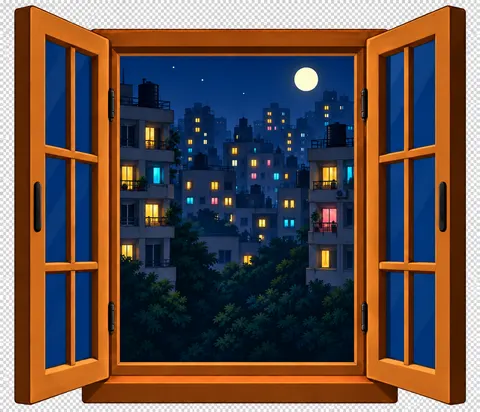
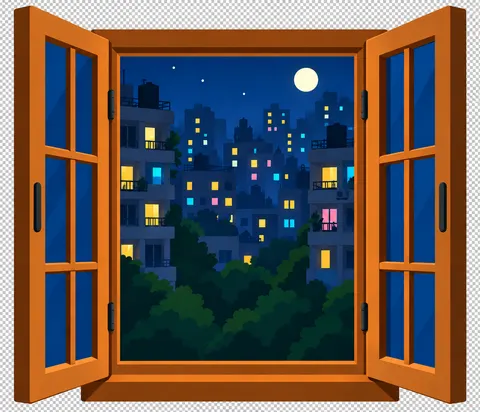
Updated Hero portrait

Changed region(s): [[0.0, 0.0, 1.0, 1.0], [0.2812, 0.1748, 0.3125, 0.2039]]

diff --git a/src/HeroPortrait.tsx b/src/HeroPortrait.tsx
@@ -1,4 +1,4 @@
-import { useEffect, useRef, useState, type CSSProperties } from 'react';
+import { useCallback, useEffect, useRef, useState, type CSSProperties } from 'react';
 import site from './content/site.json';
 import layers from './content/hero-layers.json';
 import './hero-portrait.css';
@@ -7,7 +7,7 @@ type Layer = typeof layers[number];
 // Furniture, person and equipment share one projection; the window stays independent.
 const core = ['workstation'];
 
-function PortraitLayer({ layer, visible, onLoad, onError }: { layer: Layer; visible: boolean; onLoad: (id: string) => void; onError: () => void }) {
+function PortraitLayer({ layer, visible, onLoad, onError, onSettled }: { layer: Layer; visible: boolean; onLoad: (id: string) => void; onError: () => void; onSettled: (id: string) => void }) {
   const element = useRef<HTMLDivElement>(null);
   useEffect(() => {
     if (!visible || !element.current) return;
@@ -16,9 +16,11 @@ function PortraitLayer({ layer, visible, onLoad, onError }: { layer: Layer; visi
     let disposed = false, finished = false, frame = 0, timeout = 0;
     let stop = () => {};
     const finish = () => {
+      if (disposed || finished) return;
       finished = true;
       stop(); cancelAnimationFrame(frame); clearTimeout(timeout);
       node.style.opacity = '1'; node.style.transform = 'none';
+      onSettled(layer.id);
     };
     const changed = () => { if (preference.matches) finish(); };
     preference.addEventListener('change', changed);
@@ -44,7 +46,7 @@ function PortraitLayer({ layer, visible, onLoad, onError }: { layer: Layer; visi
       }).catch(() => { if (!disposed) finish(); });
     }
     return () => { disposed = true; stop(); cancelAnimationFrame(frame); clearTimeout(timeout); preference.removeEventListener('change', changed); };
-  }, [visible, layer.delay]);
+  }, [visible, layer.delay, layer.id, onSettled]);
 
   return <div ref={element} className={`portrait-layer portrait-${layer.id}${visible ? ' is-loaded' : ''}`} style={{ '--layer-x': `${layer.x}%`, '--layer-y': `${layer.y}%`, '--layer-size': `${layer.size}%`, zIndex: layer.z } as CSSProperties}>
     <img src={layer.src} srcSet={`${layer.small} ${layer.width / 2}w, ${layer.src} ${layer.width}w`} sizes={`(max-width: 700px) ${layer.size}vw, (max-width: 1296px) ${Math.round(layer.size * .56)}vw, ${Math.round(layer.size * 7)}px`} width={layer.width} height={layer.height} alt="" aria-hidden="true" loading="lazy" decoding="async" fetchPriority="low" onLoad={event => { void event.currentTarget.decode().then(() => onLoad(layer.id)).catch(onError); }} onError={onError} />
@@ -58,6 +60,9 @@ export default function HeroPortrait() {
   const [tabHidden, setTabHidden] = useState(false);
   const [failed, setFailed] = useState(false);
   const [loaded, setLoaded] = useState<string[]>([]);
+  const [settled, setSettled] = useState<string[]>([]);
+  const markSettled = useCallback((id: string) => setSettled(previous => previous.includes(id) ? previous : [...previous, id]), []);
+  const portraitSettled = layers.every(layer => settled.includes(layer.id));
   const coreReady = core.every(id => loaded.includes(id));
   const ready = loaded.length === layers.length;
   const markLoaded = (id: string) => setLoaded(previous => previous.includes(id) ? previous : [...previous, id]);
@@ -91,8 +96,8 @@ export default function HeroPortrait() {
   return <figure className="hero-art hero-portrait">
     <div ref={scene} className={`portrait-scene${inView ? ' is-in-view' : ''}${tabHidden ? ' is-tab-hidden' : ''}${ready && !failed ? ' is-ready' : ''}${coreReady && !failed ? ' has-core' : ''}`} role="img" aria-label={coreReady && !failed ? site.hero.imageAlt : site.hero.fallbackAlt}>
       {mounted && !coreReady && !failed && <img className="portrait-loading" src={site.hero.imageSmall} width="640" height="640" alt="" loading="lazy" decoding="async" fetchPriority="low" />}
-      {mounted && !failed && layers.map(layer => <PortraitLayer key={layer.id} layer={layer} visible={loaded.includes(layer.id)} onLoad={markLoaded} onError={() => setFailed(true)} />)}
-      {coreReady && !failed && <svg className="coffee-steam portrait-steam" viewBox="0 0 36 60" aria-hidden="true"><path d="M9 56C-2 42 23 35 10 19S8 8 11 3"/><path d="M21 57C8 43 35 34 22 19S21 8 24 2"/><path d="M30 56C18 44 41 37 30 25"/></svg>}
+      {mounted && !failed && layers.map(layer => <PortraitLayer key={layer.id} layer={layer} visible={loaded.includes(layer.id)} onLoad={markLoaded} onSettled={markSettled} onError={() => setFailed(true)} />)}
+      {portraitSettled && !failed && <svg className="coffee-steam portrait-steam" viewBox="0 0 36 60" aria-hidden="true"><path d="M9 56C-2 42 23 35 10 19S8 8 11 3"/><path d="M21 57C8 43 35 34 22 19S21 8 24 2"/><path d="M30 56C18 44 41 37 30 25"/></svg>}
       {failed && <img className="portrait-fallback" src={site.hero.image} width="960" height="960" alt="" decoding="async" loading="lazy" />}
       <noscript><img className="portrait-fallback" src={site.hero.image} width="960" height="960" alt="" loading="lazy" decoding="async" /></noscript>
     </div>

diff --git a/src/hero-portrait.css b/src/hero-portrait.css
@@ -10,7 +10,7 @@
 .portrait-layer { position: absolute; left: var(--layer-x); top: var(--layer-y); width: var(--layer-size); opacity: 0; transform-origin: center bottom; pointer-events: none; }
 .hero-art .portrait-layer img { width: 100%; height: auto; mask-image: none; }
 /* Trim the generated export to the wooden frame's outer silhouette. */
-.portrait-window img { clip-path: polygon(3.2% 2.8%, 6.5% 1.5%, 19.5% 7.3%, 80.5% 7.3%, 93.4% 1.5%, 96.8% 2.8%, 96.8% 97%, 93.4% 98%, 82.6% 94.6%, 82.6% 97.8%, 17.3% 97.8%, 17.3% 94.6%, 6.5% 98%, 3.2% 97%); }
+.portrait-window img { clip-path: polygon(3.2% 2.8%, 6.5% 2%, 20% 8%, 80% 8%, 93.4% 2%, 96.8% 2.8%, 96.8% 97%, 93.4% 97.5%, 82.6% 94%, 82.6% 97.2%, 17.3% 97.2%, 17.3% 94%, 6.5% 97.5%, 3.2% 97%); }
 .hero-art .portrait-fallback { position: absolute; inset: 0; width: 100%; height: 100%; object-fit: contain; }
 .hero-portrait figcaption { bottom: 0; left: 0; right: 0; }
 .hero-art .portrait-loading { position: absolute; inset: 0; width: 100%; height: 100%; object-fit: contain; opacity: .22; filter: blur(4px); }

diff --git a/docs/hero-assets/flat-update.md b/docs/hero-assets/flat-update.md
@@ -1,0 +1,23 @@
+# Flat hero update — 2026-09-12
+
+Created with the built-in image-generation tool (style-transfer edits of the active workstation and Mumbai window). Source PNGs: `workstation-flat.png` and `window-mumbai-flat.png`. Active WebP filenames remain unchanged in `public/images/hero/`. Fallback/loading images now use `public/images/workstation-flat-640.webp` and `workstation-flat-320.webp`.
+
+The workstation has verified real alpha. The window export still contains a baked checkerboard outside the frame; the existing CSS silhouette clip was adjusted to this export. The whole-scene horizontal/vertical fade masks remain intact. Layout coordinates and layer entrance delays are unchanged. Screens retain their IDE/Unity panel arrangements, leafy code theme and voxel island content as closely as generated editing permits; tiny text is not pixel-identical.
+
+Steam mounts only after both decoded layers report their entrance animation finished. The same completion callback runs for reduced motion, failed tween downloads, and the 1.5-second animation fallback. Progressive layer reveal, idle/viewport lazy loading, hidden-tab/offscreen pausing and reduced-motion handling remain in place.
+
+## Workstation prompt
+
+Use case: style-transfer. Edit target: provided workstation image. Convert this exact illustration to a deliberately simple flat vector-like raster illustration. Keep identical square canvas, object silhouettes, positions, size, perspective, crop and generous transparent empty top area. Keep the same man, pose, glasses, hair, beard, brown shirt, black headphones and bright glowing neon green skull emblem. Keep monitor SCREEN INTERIORS as close to the original as possible: preserve the left leafy dark IDE, syntax-colored code and panel arrangements, and right Unity interface with voxel forest island, water and small orange cabin. These screen interiors are the deliberate exception to simplification; reproduce their original content faithfully. Everywhere else use crisp clean contours, solid flat fills and just 2-3 large light/shadow shapes per object. Simplify wood table to plain warm brown planes with no grain or tiny streaks; plant to broad plain leaf shapes without veins or speckles; chair to smooth plain dark panels without woven mesh. Preserve original warm lamp light direction, lit face and arms, shadows and overall palette as clear flat shapes. No photorealism, painterly brushwork, grain, texture, intricate material shading or gradients except a restrained skull/lamp glow. Keep mug at exactly its original position and shape. No steam or smoke. Keep all objects including lamp, plant, coffee mug, controller, keyboard, monitors and stands, chair and desk legs. True transparent alpha background, not a checkerboard, no wall or floor or window, no new objects. Output a raster PNG, not SVG.
+
+## Window prompt
+
+Use case: style-transfer. Edit the supplied open Mumbai night window into a simple flat vector-like raster illustration that matches a flat warm brown workstation scene. Preserve exact 480:412 aspect ratio, framing, open shutter silhouettes, perspective, positions, moon, navy sky, layered Mumbai apartment buildings, rooftop water tanks, colored lit windows. Simplify wood to 2-3 flat warm brown planes, buildings to flat navy geometric blocks, foliage to broad overlapping dark green shapes with NO tiny leaf texture. Preserve original warm window-frame illumination and cool night shading. Crisp clean shapes, no grain, no woodgrain, no painterly shading, no complex textures. Background outside the frame should be true transparent alpha, no checkerboard. Do not add objects or change composition. Output raster PNG.
+
+Both outputs received a background-extraction follow-up requesting removal of the checkerboard only, unchanged foreground and real RGBA transparency. Only the workstation extraction returned real alpha; the window is clipped in CSS.
+
+## Validation
+
+Production build, type checking, prerendering, content validation and existing size budgets pass. Full layer set: 136,000 bytes; small layer set: 52,004 bytes; loading poster: 13,396 bytes; fallback: 35,266 bytes.
+
+Visual checks at 320, 390, 768 and 1440px passed with no runtime errors, overflow or measured layout shift (`artifacts/hero/flat-final-qa.json`). All eight behavior modes passed (`artifacts/hero/behavior-qa.json`): steam movement/pause/resume, reduced motion, no JavaScript, image failure, tween failure, below-fold lazy loading, slow network and slow window. Added assertions reject steam before either layer settles and require it after successful reveals. Local preview left running at http://127.0.0.1:4174/ for user review.
